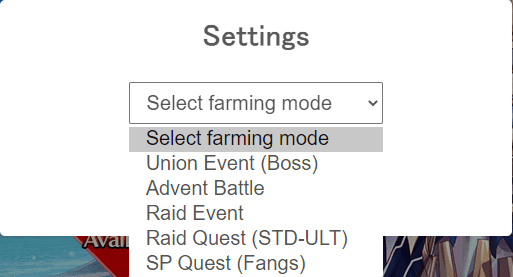
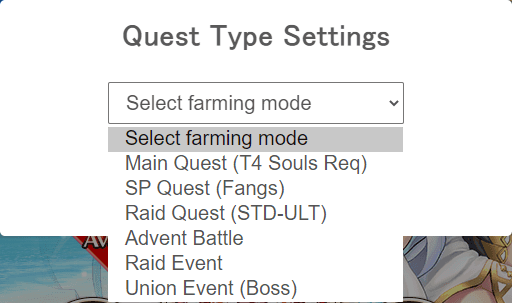
Infant Sol v.0.8

Changed region(s): [[0.0, 0.2599, 1.0, 1.0], [0.2188, 0.0578, 0.7812, 0.1733], [0.9688, 0.0, 1.0, 0.0289]]

diff --git a/is/README.md b/is/README.md
@@ -4,13 +4,21 @@ Inspired by Crossak's Sol Battler. No, not the one modified by gbros and his boy
 Best used with [Sol's Black Cock](../bbc/README.md)!
 
 ## What's New
-![IS Version](https://img.shields.io/badge/IS-v0.7.0-orange) - 03-07-2020
+![IS Version](https://img.shields.io/badge/IS-v0.8.0-orange) - 31-07-2020
 
 ### Added
-- `Difficulties to farm` option in `Raid Event` settings
+- `Main Quest` mode
+- `Raid Quest` settings
 
 ### Changed
-- Raid Event mode's `nth run` notification now shows current difficulty
+- Compact text arrangements on some settings (less newlines)
+
+### Fixed
+- Unexpected behaviour on waiting ap/bp regeneration where it still gets triggered even when Director got a new task
+- Properly show current settings panel context
+
+### Removed
+- `Skip Ultimate` option in `Quest Preparation` settings in favour of `Raid Quest` settings
 
 ## ⚠ Preface
 - **Director** = the script itself
@@ -29,9 +37,16 @@ Best used with [Sol's Black Cock](../bbc/README.md)!
         difficulty: 'Expert',
         boss: 'seraph'
     },
+    main: {
+      maxRebattles: 1,
+      quests: [ MAIN_QUESTS.ROTTEN, MAIN_QUESTS.SHADOW ]
+    },
     daily: {
         maxRebattles: 1,
         elements: [ DAILY_QUESTS.LIGHT ]
+    },
+    raid: {
+      difficulties: RAID_QUESTS.FIRE.concat(RAID_QUESTS.LIGHT)
     },
     advent: {
         maxRebattles: 1,
@@ -46,7 +61,6 @@ Best used with [Sol's Black Cock](../bbc/README.md)!
     heThreshold: 500,
     element: ELEMENTS.LIGHT,
     medeaIsShit: true,
-    skipUltimate: false,
     shareRaid: {
         all: false,
         friends: false,
@@ -68,11 +82,12 @@ Described as `Quest Type` in settings panel.
 
 <center><img alt="questtype" src="../assets/is/Auto%20Mode.png"></center>
 
-- `Union Event`: Joins a battle that has less than 8 participants, and more than or is equal to 50% HP
+- `Main Quest (T4 Souls Req)`: Starts battle in the check list. The max re-battles specified is **per quest** in the list.
+- `SP Quest (Fangs)`: Starts battle from the first element set in the list. The max re-battles specified is **per element** in the list
+- `Raid Quest`: Starts battle from STD-ULT all elements
 - `Advent Battle`: Starts battle with specified difficulty (default: expert)
 - `Raid Event`: Starts battle from STD and stops at the max materials specified, and then jumps to higher difficulties and consume their tokens
-- `Raid Quest`: Starts battle from STD-ULT all elements
-- `SP Quest (Fangs)`: Starts battle from the first element set in the list. The max re-battles specified is **per element** in the list
+- - `Union Event`: Joins a battle that has less than 8 participants, and more than or is equal to 50% HP
 
 ### Quest Preparation
 
@@ -85,8 +100,14 @@ Described as `Quest Type` in settings panel.
 - `Half Elixir Threshold` - Dictates Director to stop using HE and use regen'd AP once the remaining count reaches the specified threshold
 - `Seed Threshold` - Dictates Director to stop using seeds and use regen'd BP once the remaining count reaches the specified threshold
 - `Medea is Shit` - If enabled, Director prefers AB on easy contents (being beginner, standard, expert difficulties)
-- `Skip Raid Quest Ultimates` - If enabled, Director only does STD-EXP raid quests
 - `Raid Sharing` - Self-explanatory
+
+### Main Quest
+
+<center><img alt="mainquest" src="../assets/is/Main%20Quest.png"></center>
+
+- `Max Re-battles Per Quest` - Self-explanatory
+- `Quests to do` - Dictates Director to do the [quests](https://kamihime-project.fandom.com/wiki/Souls#S_Class) that drop the T4 required materials in the following checked realms
 
 ### SP Quest (Fangs)
 To set the re-battle to infinite, set **re-battles to `0`** and there should be **only `one element` in elements to farm**.
@@ -95,6 +116,11 @@ To set the re-battle to infinite, set **re-battles to `0`** and there should be 
 
 - `Max Re-battles Per Element` - Self-explanatory
 - `Elements to Farm in Order` - Self-explanatory
+
+### Raid Quest (STD-ULT)
+Dictates Director to do the following checked quests.
+
+<center><img alt="raidquest" src="../assets/is/Raid%20Quest.png"></center>
 
 ### Advent Battle
 To set the re-battle to infinite, set **re-battles to `0`**.

diff --git a/README.md b/README.md
@@ -1,6 +1,6 @@
 # The Sol Trilogy
 - [**Sol's Big Black Cock**](bbc/README.md) ![BBC Version](https://img.shields.io/badge/BBC-v0.10.0-orange)
-- [**Infant Sol**](is/README.md) ![IS Version](https://img.shields.io/badge/IS-v0.7.0-orange)
+- [**Infant Sol**](is/README.md) ![IS Version](https://img.shields.io/badge/IS-v0.8.0-orange)
 - [**Albino Sol**](as/README.md) ![AS Version](https://img.shields.io/badge/AS-v0.1.0-A6C2E6)
 
 # Copyright
